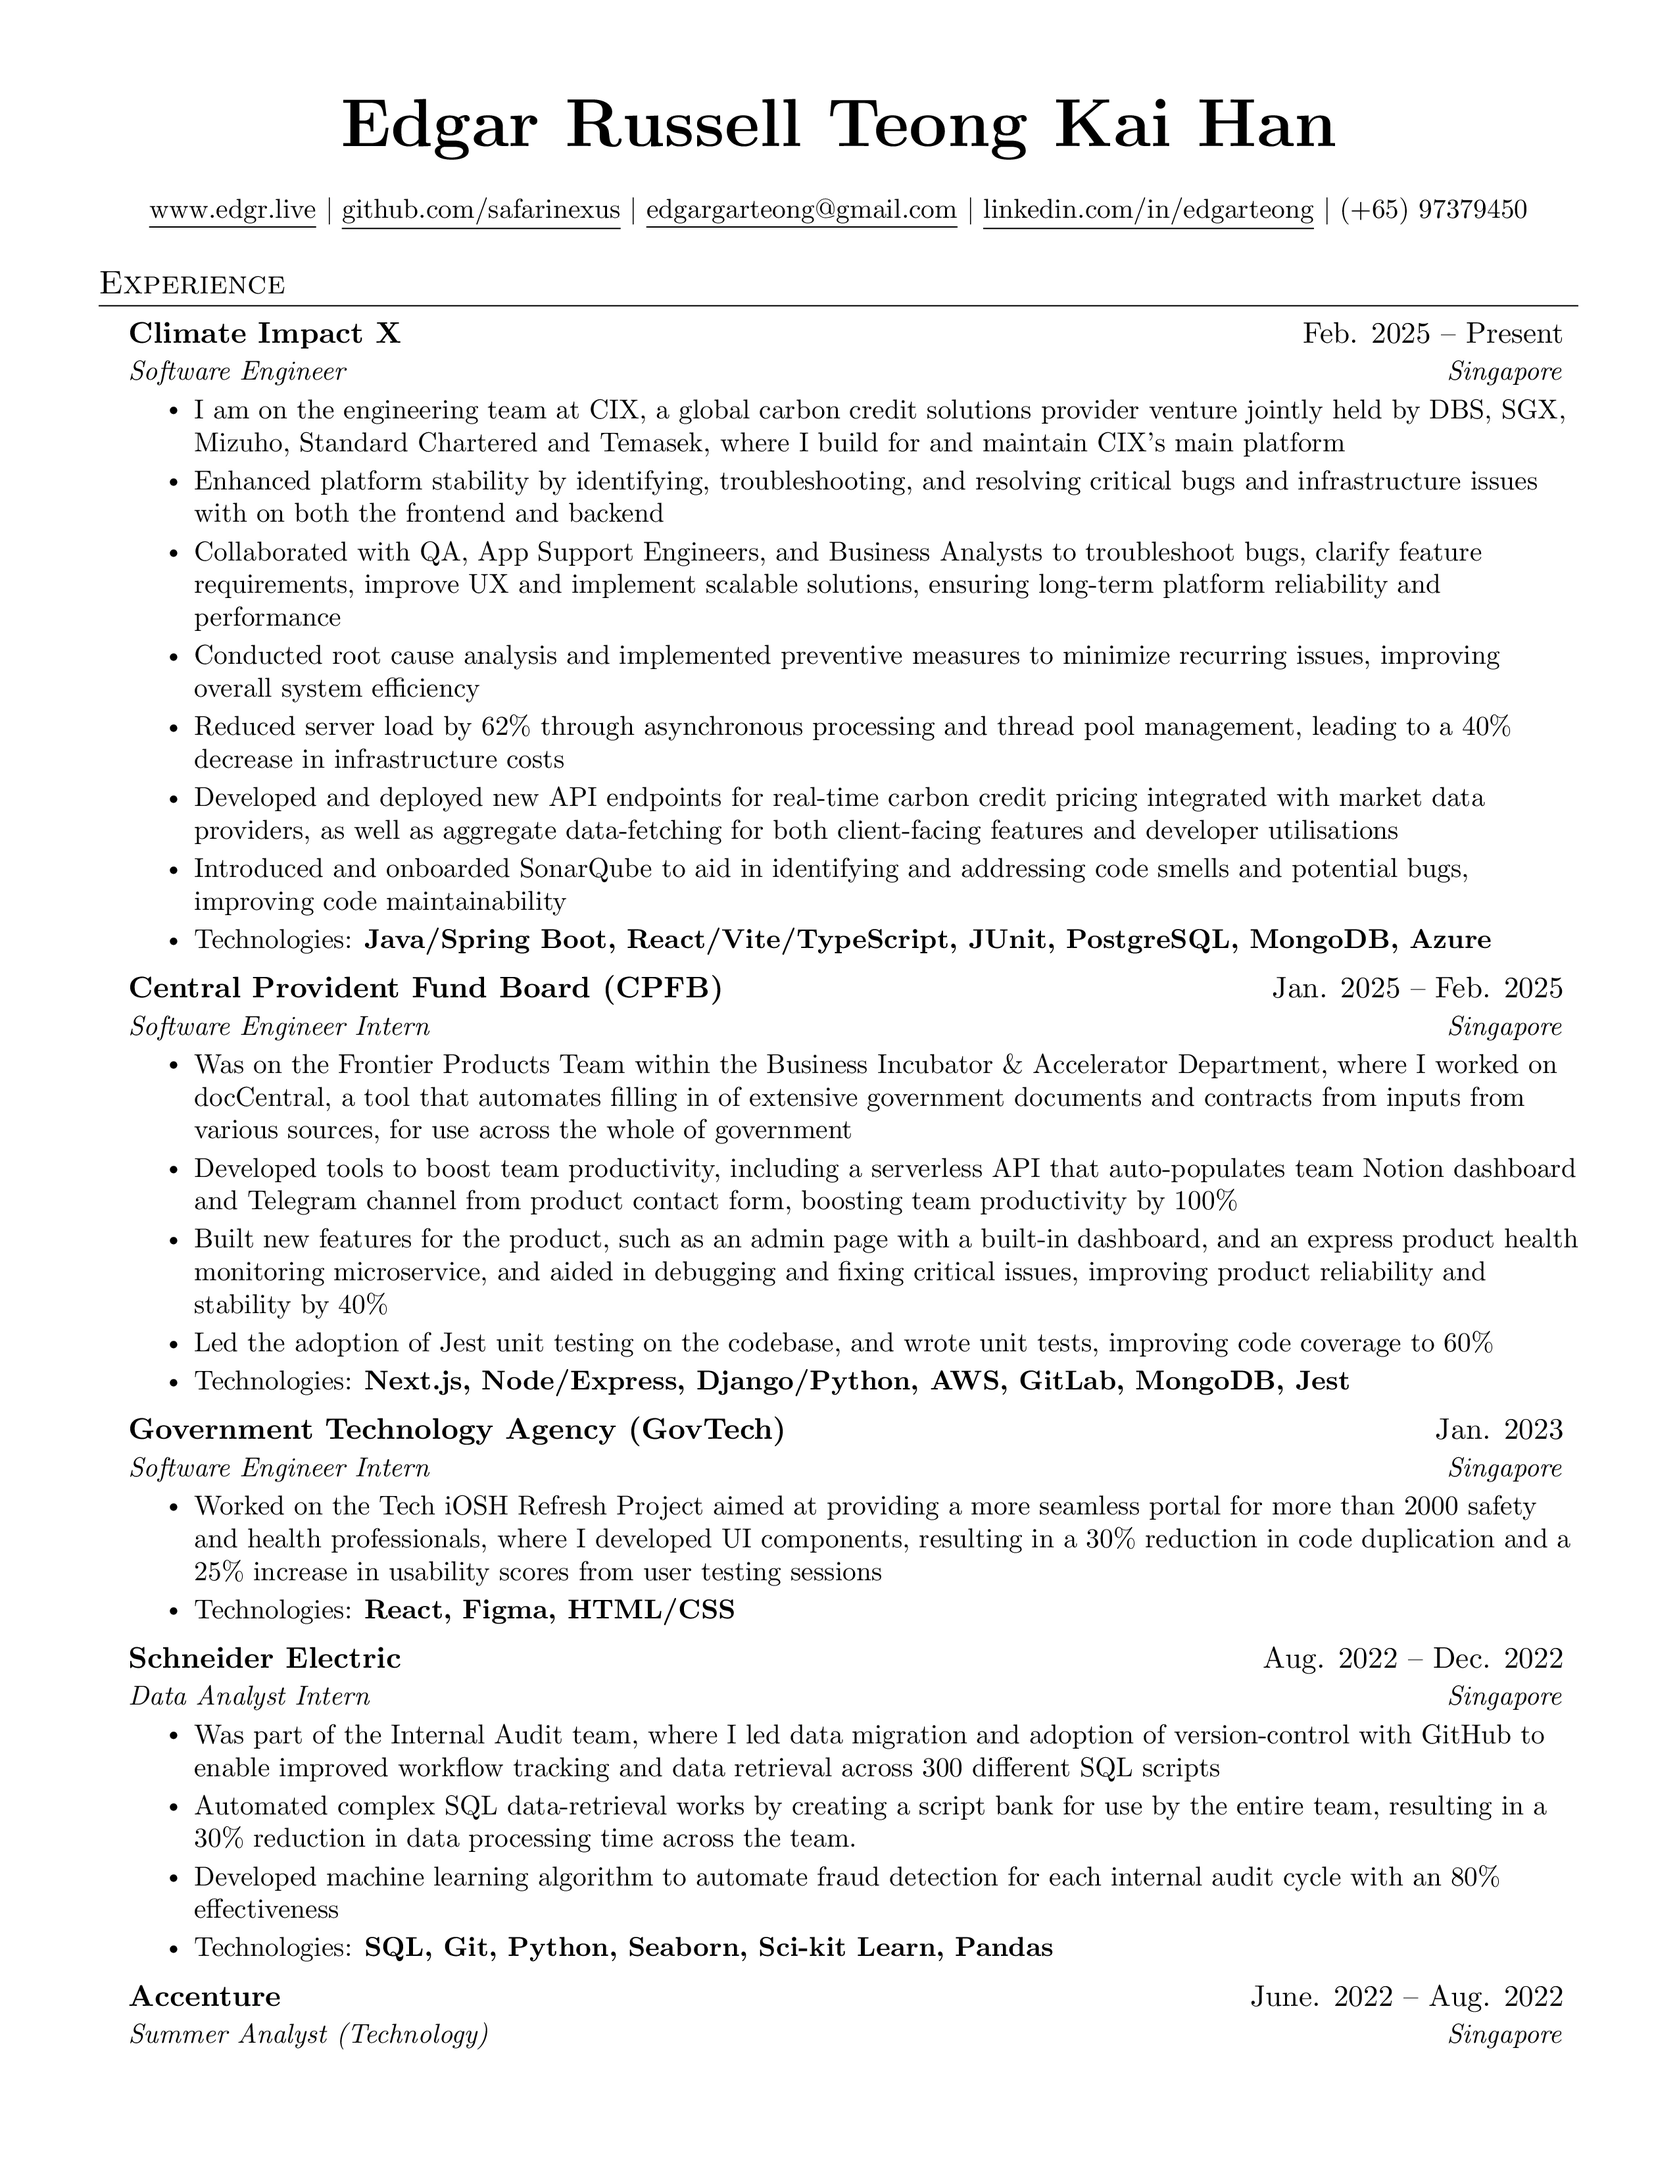
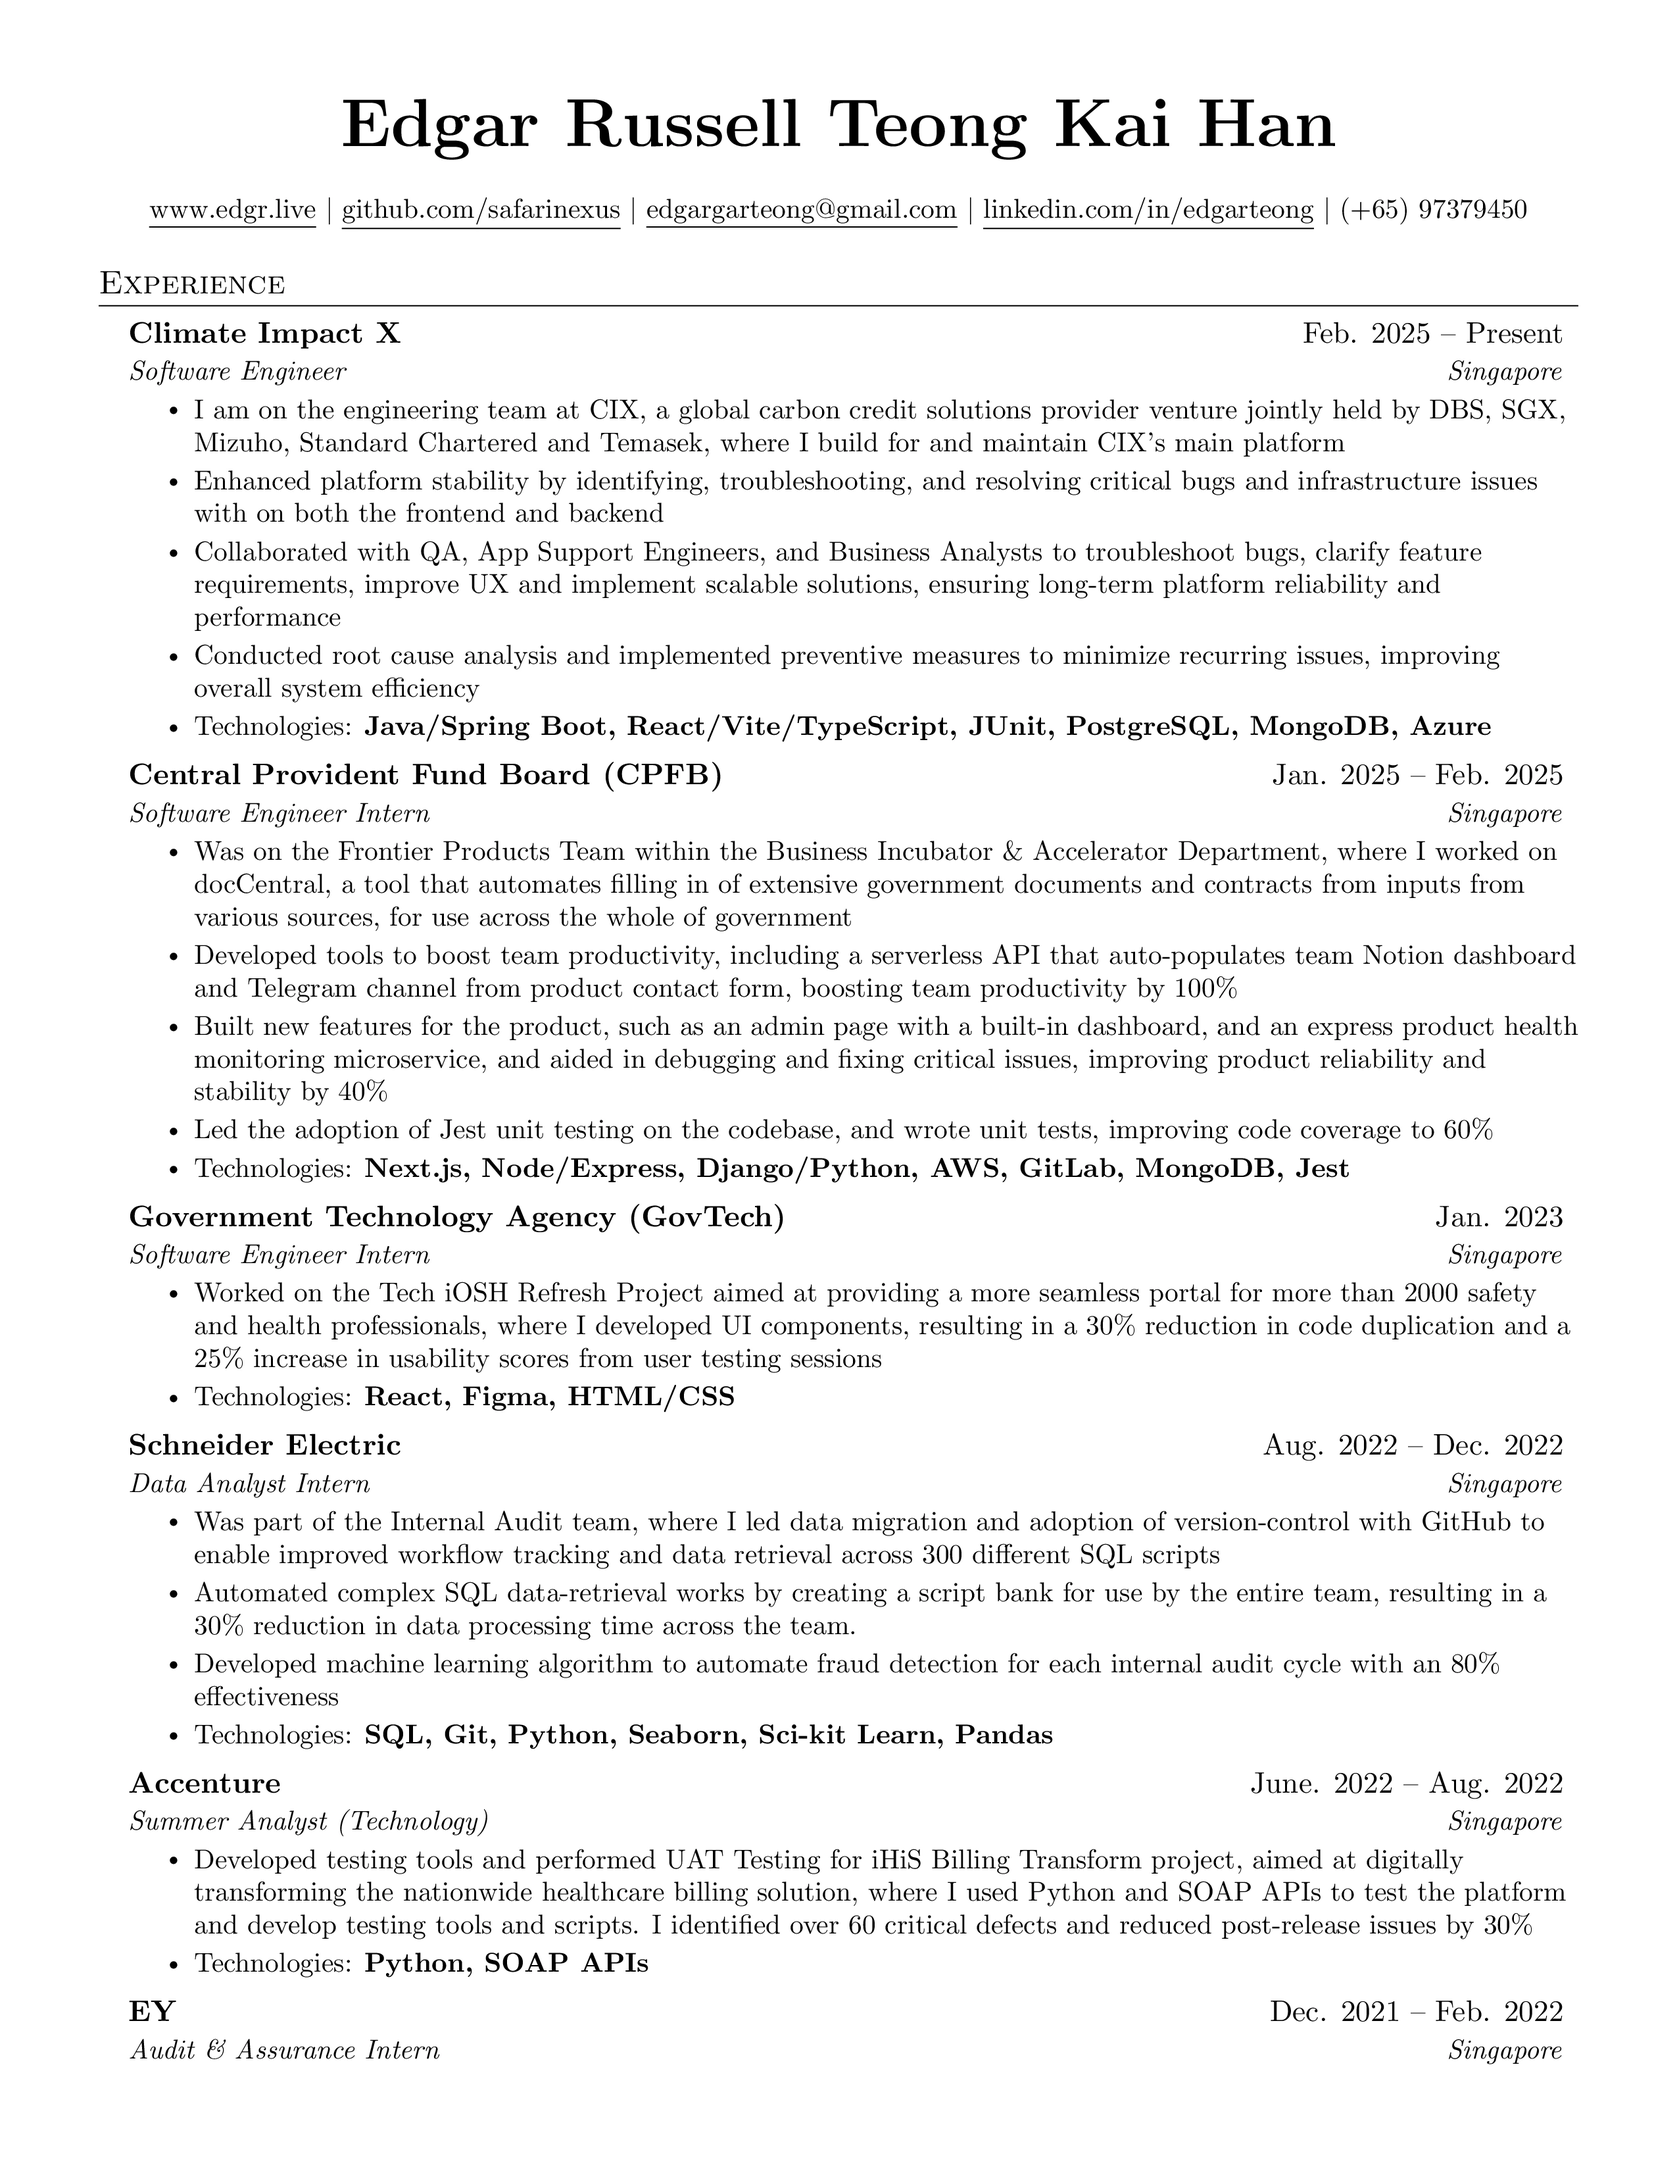
revert resume

diff --git a/edgr-resume.tex b/edgr-resume.tex
@@ -152,9 +152,9 @@
       \resumeItem{Enhanced platform stability by identifying, troubleshooting, and resolving critical bugs and infrastructure issues with on both the frontend and backend}
       \resumeItem{Collaborated with QA, App Support Engineers, and Business Analysts to troubleshoot bugs, clarify feature requirements, improve UX and implement scalable solutions, ensuring long-term platform reliability and performance}
       \resumeItem{Conducted root cause analysis and implemented preventive measures to minimize recurring issues, improving overall system efficiency}
-      \resumeItem{Reduced server load by 62\% through asynchronous processing and thread pool management, leading to a 40\% decrease in infrastructure costs}
-      \resumeItem{Developed and deployed new API endpoints for real-time carbon credit pricing integrated with market data providers, as well as aggregate data-fetching for both client-facing features and developer utilisations}
-      \resumeItem{Introduced and onboarded SonarQube to aid in identifying and addressing code smells and potential bugs, improving code maintainability}
+  %    \resumeItem{Reduced server load by 62\% through asynchronous processing and thread pool management, leading to a 40\% decrease in infrastructure costs}
+  %    \resumeItem{Developed and deployed new API endpoints for real-time carbon credit pricing integrated with market data providers, as well as aggregate data-fetching for both client-facing features and developer utilisations}
+  %    \resumeItem{Introduced and onboarded SonarQube to aid in identifying and addressing code smells and potential bugs, improving code maintainability}
       \resumeItem{Technologies: \textbf{Java/Spring Boot, React/Vite/TypeScript, JUnit, PostgreSQL, MongoDB, Azure}}
     \resumeItemListEnd
 
